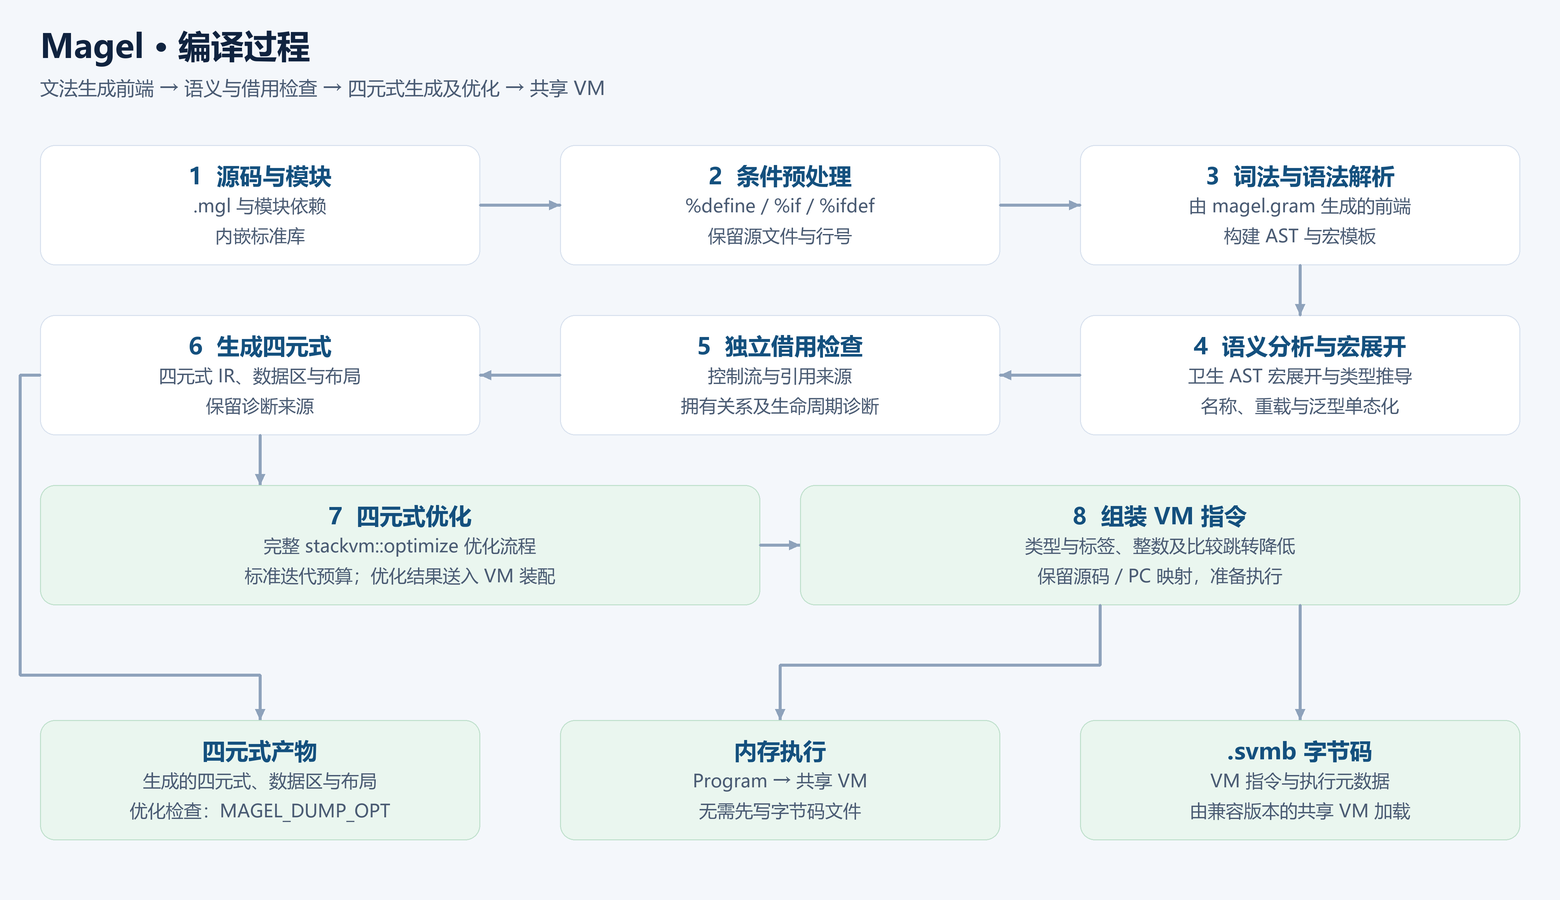
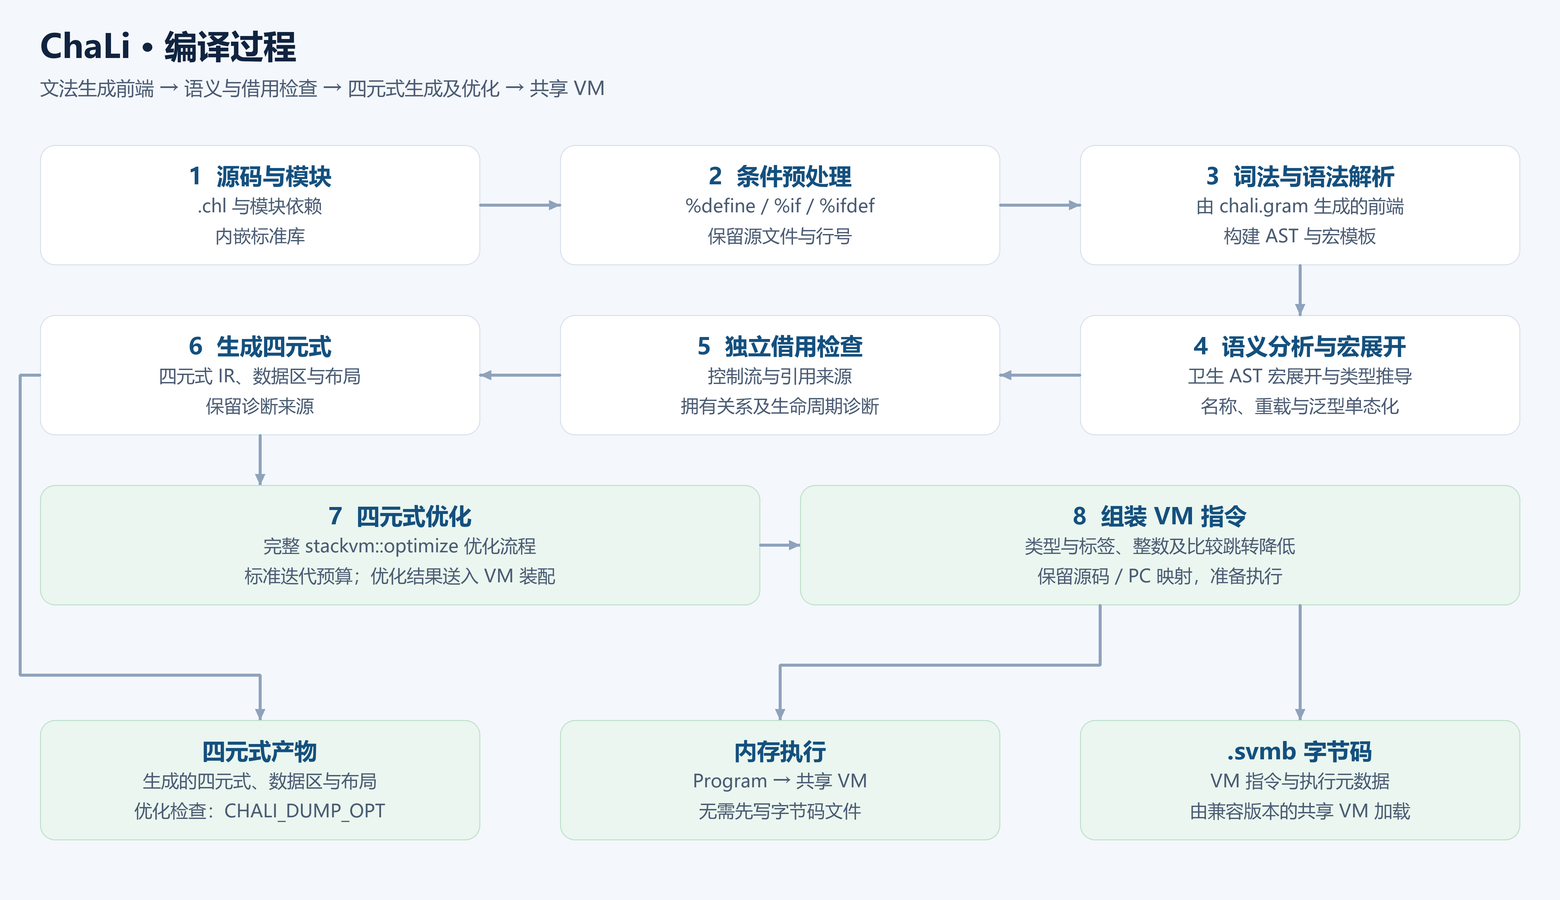
0.27.2：解析器生成器升到 v1.3.0、流程图重生成

diff --git a/tests/gen_download.py b/tests/gen_download.py
@@ -9,9 +9,10 @@ import urllib.error
 
 ROOT = Path(__file__).resolve().parents[1]
 DOWNLOAD = (ROOT / "gen.sh").read_text(encoding="utf-8").split("python - <<'PY'\n", 1)[1].split("\nPY\n", 1)[0]
-# 固定验证仓库指定的生成器版本，不跟随远端 latest 漂移。
-GITEE = "https://gitee.com/rabbitc999/ParseEngine/releases/download/v1.1.0/ParseEngine.exe"
-SOURCES = [GITEE]
+# 固定验证仓库指定的生成器版本，不跟随远端 latest 漂移；GitHub 优先，Gitee 兜底。
+GITHUB = "https://github.com/rabbitc999/ParseEngine/releases/download/v1.3.0/ParseEngine.exe"
+GITEE = "https://gitee.com/rabbitc999/ParseEngine/releases/download/v1.3.0/ParseEngine.exe"
+SOURCES = [GITHUB, GITEE]
 
 
 class DownloadTests(unittest.TestCase):
@@ -40,8 +41,8 @@ class DownloadTests(unittest.TestCase):
                         with self.assertRaisesRegex(SystemExit, expected):
                             exec(compile(DOWNLOAD, "gen.sh:download", "exec"), {})
                     attempted = [call.args[0] for call in request.call_args_list]
-                    # 只访问指定版本的发布地址。
-                    self.assertEqual(attempted[0], GITEE)
+                    # 只访问指定版本的发布地址，GitHub 排在最前。
+                    self.assertEqual(attempted[0], GITHUB)
                     self.assertEqual(attempted, SOURCES[:attempts])
                     self.assertTrue(all(call.kwargs == {"timeout": 60} for call in request.call_args_list))
                 self.assertEqual(executable.read_bytes(), content if expected is None else b"MZprevious")

diff --git a/source/lsp/lsp_main.cpp b/source/lsp/lsp_main.cpp
@@ -70,7 +70,7 @@ std::string readFile(const std::string &path, bool &ok)
  */
 void printHelp()
 {
-    std::cout << "chali-lsp 0.27.1 —— ChaLi 宏 / 块的编辑期语言服务器\n"
+    std::cout << "chali-lsp 0.27.2 —— ChaLi 宏 / 块的编辑期语言服务器\n"
                  "\n"
                  "用法：\n"
                  "  chali-lsp --stdio            在标准输入输出上跑 LSP（编辑器默认用法）\n"
@@ -106,7 +106,7 @@ int main(int argc, char **argv)
         }
         if (arg == "--version" || arg == "-v")
         {
-            std::cout << "chali-lsp 0.27.1\n";
+            std::cout << "chali-lsp 0.27.2\n";
             return 0;
         }
         if (arg == "--check")

diff --git a/tools/chalidev.py b/tools/chalidev.py
@@ -787,7 +787,7 @@ def _text(original):
     return _MESSAGES.get(original, (original, original))[0]
 
 
-VERSION = "0.27.1"
+VERSION = "0.27.2"
 IGNORED = {".git", ".chali", "build", "tmp", "node_modules", "__pycache__"}
 EXTENSIONS = {".chl", ".inc", ".h", ".hpp", ".c", ".cpp", ".toml", ".json"}
 KEYWORDS = "_ abi let bool break cast char const continue copy defer drop elif else enum false float32 float64 fn for heap if impl import in inline int16 int32 int64 int8 interface loop match module move mut new opcode return scope static struct true type uint16 uint32 uint64 uint8 void while yield".split()

diff --git a/source/chali_package.hpp b/source/chali_package.hpp
@@ -140,7 +140,7 @@ Memory::Vector<Memory::String> tomlArray(const toml::Value &value,
 /**
  * @brief 当前工具链版本，参与项目最低版本验证。
  */
-inline constexpr const char *compilerVersion = "0.27.1";
+inline constexpr const char *compilerVersion = "0.27.2";
 
 /**
  * @brief 解析 `1.2.3` 形式的三段版本号。

diff --git a/source/lsp/language_server.cpp b/source/lsp/language_server.cpp
@@ -10,7 +10,7 @@ namespace
 {
 
 const char *kServerName = "chali-lsp";
-const char *kServerVersion = "0.27.1";
+const char *kServerVersion = "0.27.2";
 
 /**
  * 语义 token 的 legend：与 `macro_analyzer.cpp` 里写进 token 的类型名一一对应。

diff --git a/CHANGELOG.md b/CHANGELOG.md
@@ -1,6 +1,13 @@
 # ChaLi 变更记录
 
-版本号写在 [`VERSION`](VERSION) 里，格式 `MAJOR.MINOR.PATCH`。当前语言版本为 **0.27.1**：语言尚未发布，当前使用 0.x.x 开发版本。不兼容变更升主版本，兼容功能新增升次版本，修复升补丁版本；所有变更均须记入本文件（改 [`tools/changelog_data.json`](tools/changelog_data.json) 后跑 `--build`），并同步更新 [`doc/21-semantics-frozen.md`](doc/21-semantics-frozen.md) 与 `AGENTS.md`。VS Code 扩展包独立编号；当前版本之前的历史版本统一采用三段 0.x.x 编号，只保留一行摘要。
+版本号写在 [`VERSION`](VERSION) 里，格式 `MAJOR.MINOR.PATCH`。当前语言版本为 **0.27.2**：语言尚未发布，当前使用 0.x.x 开发版本。不兼容变更升主版本，兼容功能新增升次版本，修复升补丁版本；所有变更均须记入本文件（改 [`tools/changelog_data.json`](tools/changelog_data.json) 后跑 `--build`），并同步更新 [`doc/21-semantics-frozen.md`](doc/21-semantics-frozen.md) 与 `AGENTS.md`。VS Code 扩展包独立编号；当前版本之前的历史版本统一采用三段 0.x.x 编号，只保留一行摘要。
+
+
+## 0.27.2 — 解析器生成器升到 v1.3.0、流程图重新生成
+
+- 文法生成器升级到 ParseEngine v1.3.0：`gen.sh` 的固定下载地址由 v1.1.0 改为 v1.3.0，解析器与驱动按新版本重新生成（文法未改动，生成的产物行为不变）；下载顺序改为 **GitHub 优先、Gitee 兜底**，`tests/gen_download.py` 跟随钉死该版本，并断言先访问 GitHub 发布地址。
+- 重新生成编译与运行流程图：此前入库的 PNG 还是改名前的旧图（图题写「Magel • 运行过程」、节点写 `.mgl / 内存 Program`），而同一套 SVG 早已是 ChaLi 口径；重跑 `tools/make_pipeline_diagrams.py` 后四张 PNG 与 SVG 一致，`doc/book/images/` 里的两份副本同步更新。图标与总览图重跑后字节不变。
+- 程序版本更新为 0.27.2，VS Code 插件的 `chaliCompilerVersion`、语言服务器 `kServerVersion` 与 `chali-lsp` 版本输出、`chali-dev` 版本号同步（插件 `version` 保持 1.0.0）。
 
 
 ## 0.27.1 — main 只保留 void 一种入口

diff --git a/AGENTS.md b/AGENTS.md
@@ -46,7 +46,7 @@
    向它推送任何分支或 tag 之前，**必须先取得用户明确同意**；未经同意不得推送，
    也不要把它当成 `origin` 的自动镜像顺手同步。
 8. **程序与插件分别记录版本**：根目录 [`VERSION`](VERSION) 是 ChaLi 程序版本，当前为
-   `0.27.1`；[`vscode/package.json`](vscode/package.json) 的插件 `version` 独立保持 `1.0.0`，
+   `0.27.2`；[`vscode/package.json`](vscode/package.json) 的插件 `version` 独立保持 `1.0.0`，
    `chaliCompilerVersion` 必须与 `VERSION` 一致。内嵌编译器报告程序版本，VSIX 清单和包名
    使用插件版本。交付前在 `vscode/` 执行 `npm run package`，生成
    `vscode/dist/chali-editor-1.0.0.vsix`，核对两种版本及内嵌编译器字节。
@@ -187,7 +187,7 @@ Markdown 与 LaTeX/PDF 保持相同的编号意图：不编号的小标题不得
 
 ## CHANGELOG 与版本口径
 
-语言尚未发布，当前开发版本为 **0.27.1**。此前累计的 1.0.0 开发记录细分为
+语言尚未发布，当前开发版本为 **0.27.2**。此前累计的 1.0.0 开发记录细分为
 `0.19.0`–`0.19.15` 与 `0.20.0`–`0.20.16`；更早的 1.x 已重排为 `0.18.0`–`0.18.6`。
 历史版本都使用三段 `0.x.x`；VS Code 扩展包独立使用 `1.0.0`。
 
